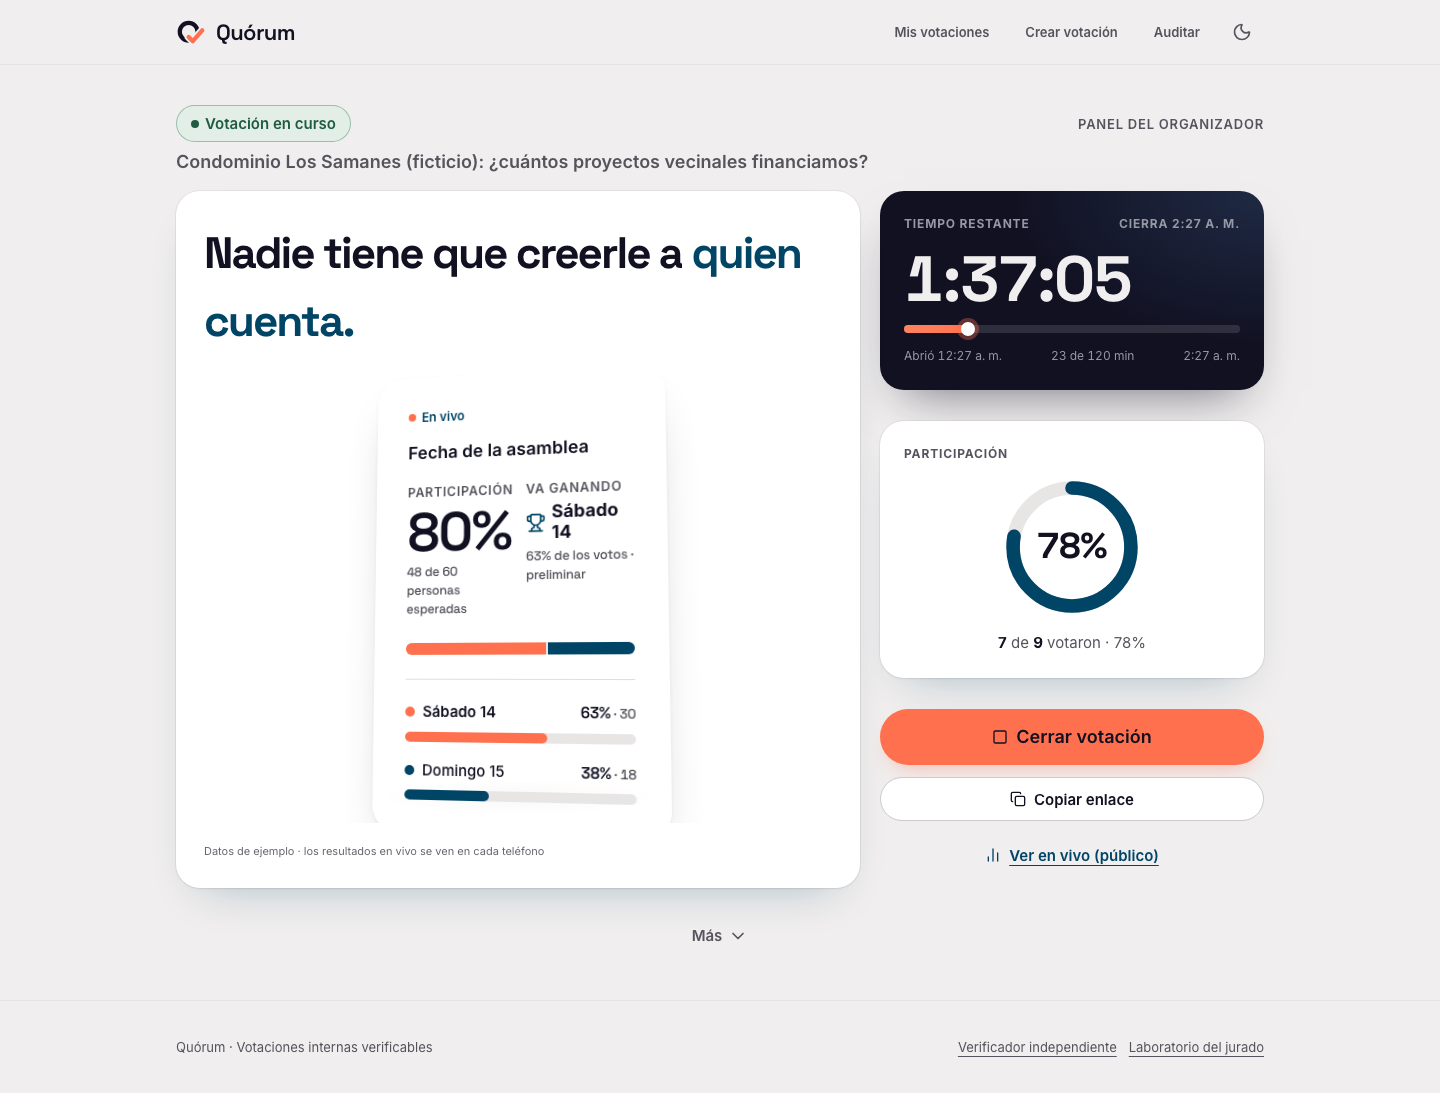
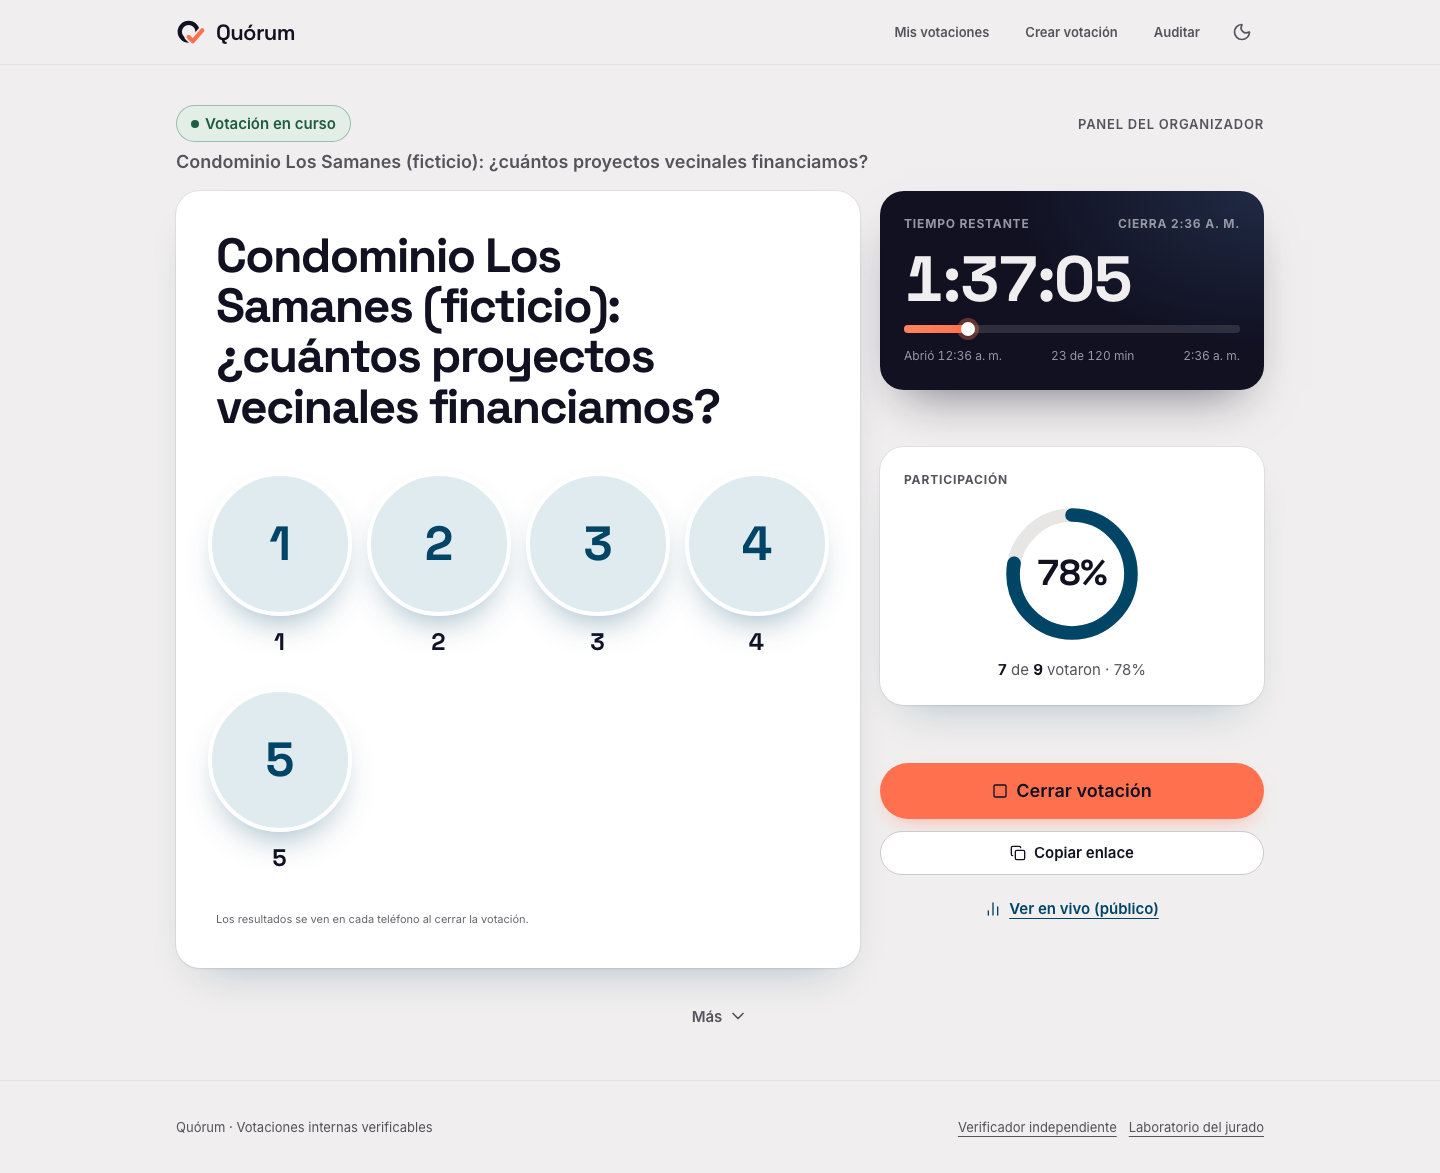
Cabina: iniciales grandes en los avatares; capturas del panel en votación con fotos
Claude-Session: https://claude.ai/code/session_0126UDXVedLgwsVx5cb5fxdw

diff --git a/apps/web/e2e/screenshots.fotos.spec.ts b/apps/web/e2e/screenshots.fotos.spec.ts
@@ -129,7 +129,7 @@ test("espera animada y boleta con fotos (modo continuo)", async ({ page }) => {
   await shot(page, "boleta-elegida-360");
 });
 
-test("panel del organizador: «Por opción» con tarjetas", async ({ page }) => {
+test("panel del organizador en votación: título y fotos grandes de las opciones (sin resultados)", async ({ page }) => {
   const imgs = await photos(page);
   const mock = new MockV1("open");
   mock.continuous = true;
@@ -140,10 +140,11 @@ test("panel del organizador: «Por opción» con tarjetas", async ({ page }) => 
   await mock.install(page);
   await page.addInitScript(([id, t]) => sessionStorage.setItem(`quorum.orgToken.${id}`, t), [E2E.electionId, E2E.orgToken] as const);
   await page.goto(`/org/${E2E.electionId}`);
-  await expect(page.getByTestId("live-breakdown")).toContainText(NAMES[1]!);
-  await shot(page, "panel-por-opcion-360", true);
+  await expect(page.getByTestId("panel-options")).toContainText(NAMES[1]!);
+  await expect(page.getByTestId("live-breakdown")).toHaveCount(0);
+  await shot(page, "panel-votacion-fotos-360", true);
   await page.setViewportSize({ width: 1440, height: 900 });
-  await shot(page, "panel-por-opcion-1440");
+  await shot(page, "panel-votacion-fotos-1440");
 });
 
 test("en vivo: tarjetas, ganador, empate y fallo detectado", async ({ page }) => {

diff --git a/apps/web/src/components/org/OptionsShowcase.tsx b/apps/web/src/components/org/OptionsShowcase.tsx
@@ -22,7 +22,7 @@ export function OptionsShowcase({ title, options, className }: { title: string; 
         {options.map((o, i) => (
           <li key={o.id} className="flex min-w-0 flex-col items-center gap-3 text-center" data-testid="panel-option">
             <span className="q-float block" style={{ animationDelay: `${(i % 5) * 0.35}s` }}>
-              <OptionAvatar label={o.label} image={o.image} className={cn("size-28 border-4 border-card shadow-[0_18px_36px_-16px_rgb(0_68_102/0.45)] sm:size-32", many ? "lg:size-36" : "lg:size-44")} />
+              <OptionAvatar label={o.label} image={o.image} className={cn("size-28 border-4 border-card text-[2.5rem] shadow-[0_18px_36px_-16px_rgb(0_68_102/0.45)] sm:size-32 sm:text-[2.75rem]", many ? "lg:size-36 lg:text-[3rem]" : "lg:size-44 lg:text-[3.5rem]")} />
             </span>
             <span className="flex min-w-0 flex-col">
               <span className="line-clamp-2 break-words font-display text-[1.125rem] font-bold leading-tight sm:text-[1.25rem] lg:text-[1.5rem]">{o.label}</span>
